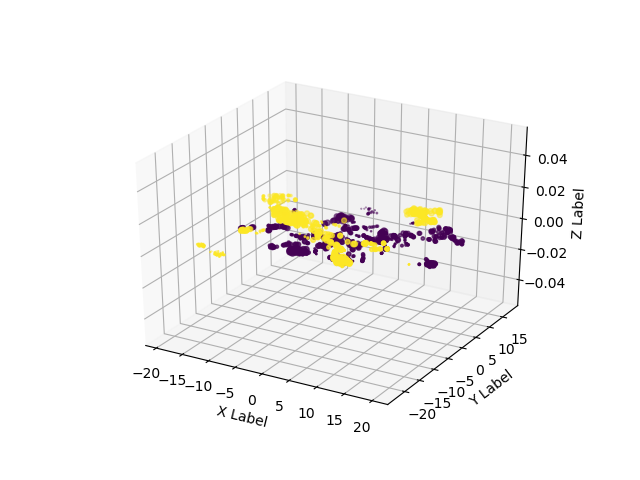
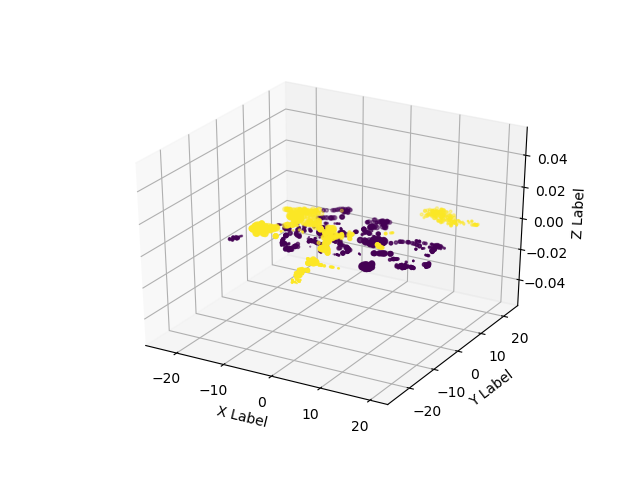
added 2d, 3d tsne imgs

diff --git a/mf_gmm/code/tsne_analysis.py b/mf_gmm/code/tsne_analysis.py
@@ -143,7 +143,7 @@ pcaobj_filepath = '/home/yichingl/mf/mf2018/mf_gmm/trained_svm_gmm/'+full_name+'
 # Load supervects
 
 ## GMM
-GMM = 0;
+GMM = 1;
 if GMM:
 	# pack shared parameters
 	data_params = {'n_feats': n_feats,'n_clusters': n_clusters, 'feat_type': feat_type};
@@ -193,9 +193,27 @@ pca_feat = pca.transform(feat_read);
 feat_embedded = TSNE(n_components=3).fit_transform(pca_feat)
 
 if GMM:
-	plt.scatter(feat_embedded[:, 0], feat_embedded[:, 1], feat_embedded[:, 2],c = labels_train);
-	plt.tight_layout();
+
+	fig = plt.figure()
+	ax = fig.add_subplot(111,projection='3d');
+	plt.scatter(feat_embedded[:, 0], feat_embedded[:, 1],  feat_embedded[:, 2],c = labels_train);
+	
+	ax.set_xlabel('X Label')
+	ax.set_ylabel('Y Label')
+	ax.set_zlabel('Z Label')
 	plt.savefig('../vis/tsne-gmm-spec-3d.png');
+	plt.close()
+
+	plt.scatter(feat_embedded[:, 2], feat_embedded[:, 0], c = labels_train);
+	plt.tight_layout();
+	plt.savefig('../vis/tsne-gmm-spec-3d-zx.png');
+	plt.close();
+
+	plt.scatter(feat_embedded[:, 2], feat_embedded[:, 2], c = labels_train);
+	plt.tight_layout();
+	plt.savefig('../vis/tsne-gmm-spec-3d-zy.png');
+	plt.close();
+
 
 else:
 	fig = plt.figure()
@@ -208,6 +226,15 @@ else:
 	plt.savefig('../vis/tsne-cnn-spec-3d.png');
 	plt.close()
 
+	plt.scatter(feat_embedded[:, 2], feat_embedded[:, 0], c = labels_train);
+	plt.tight_layout();
+	plt.savefig('../vis/tsne-cnn-spec-3d-zx.png');
+	plt.close();
+
+	plt.scatter(feat_embedded[:, 2], feat_embedded[:, 2], c = labels_train);
+	plt.tight_layout();
+	plt.savefig('../vis/tsne-cnn-spec-3d-zy.png');
+	plt.close();
 
 
 
@@ -221,9 +248,7 @@ if GMM:
 else:
 	plt.scatter(feat_embedded[:, 0], feat_embedded[:, 1], c = labels_train);
 	plt.tight_layout();
-	plt.savefig('../vis/tsne-cnn-spec-02d.png');
-	#plt.set_xlabel('X Label')
-	#plt.set_ylabel('Y Label')
+	plt.savefig('../vis/tsne-cnn-spec-2d.png');
 
 
 
